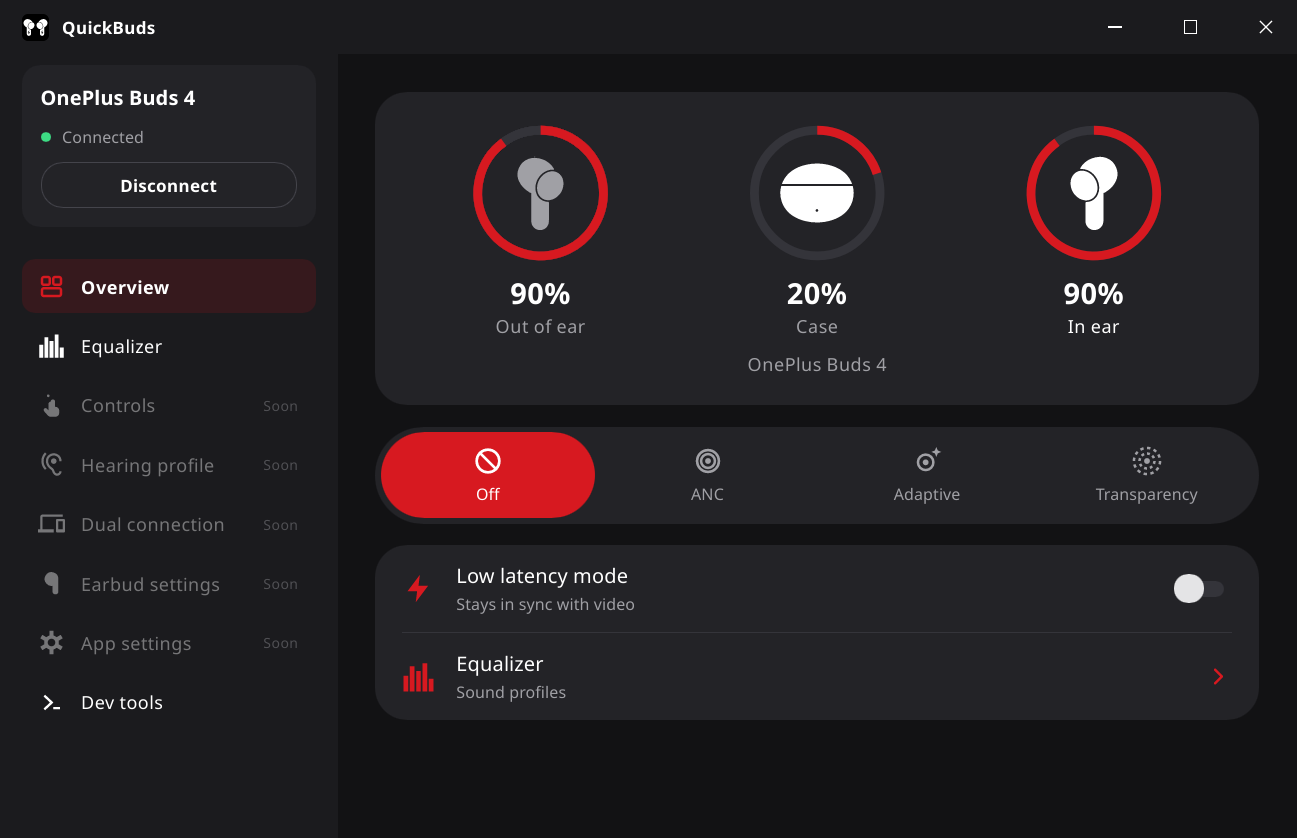
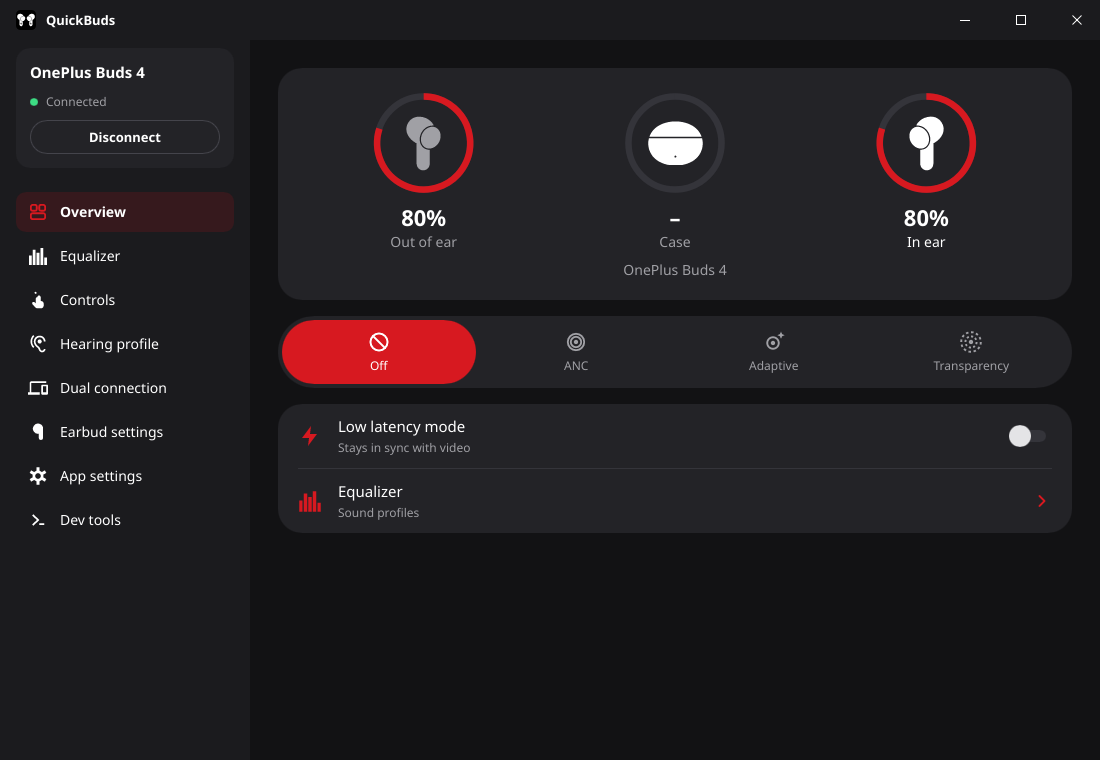
Desktop screenshots: every page and Dot matrix

diff --git a/README.md b/README.md
@@ -63,6 +63,8 @@ Windows and Linux (shown: KDE Plasma). The tray menu shows the battery; on Windo
 
 <img src="docs/screenshots/desktop/window.png" width="640">
 
+Every page, and the Dot matrix style, is in [docs/screenshots/desktop](docs/screenshots/desktop).
+
 | Tray icon | Tray menu |
 | :---: | :---: |
 | <img src="docs/screenshots/desktop/tray.png" width="400"> | <img src="docs/screenshots/desktop/tray-menu.png" width="320"> |
